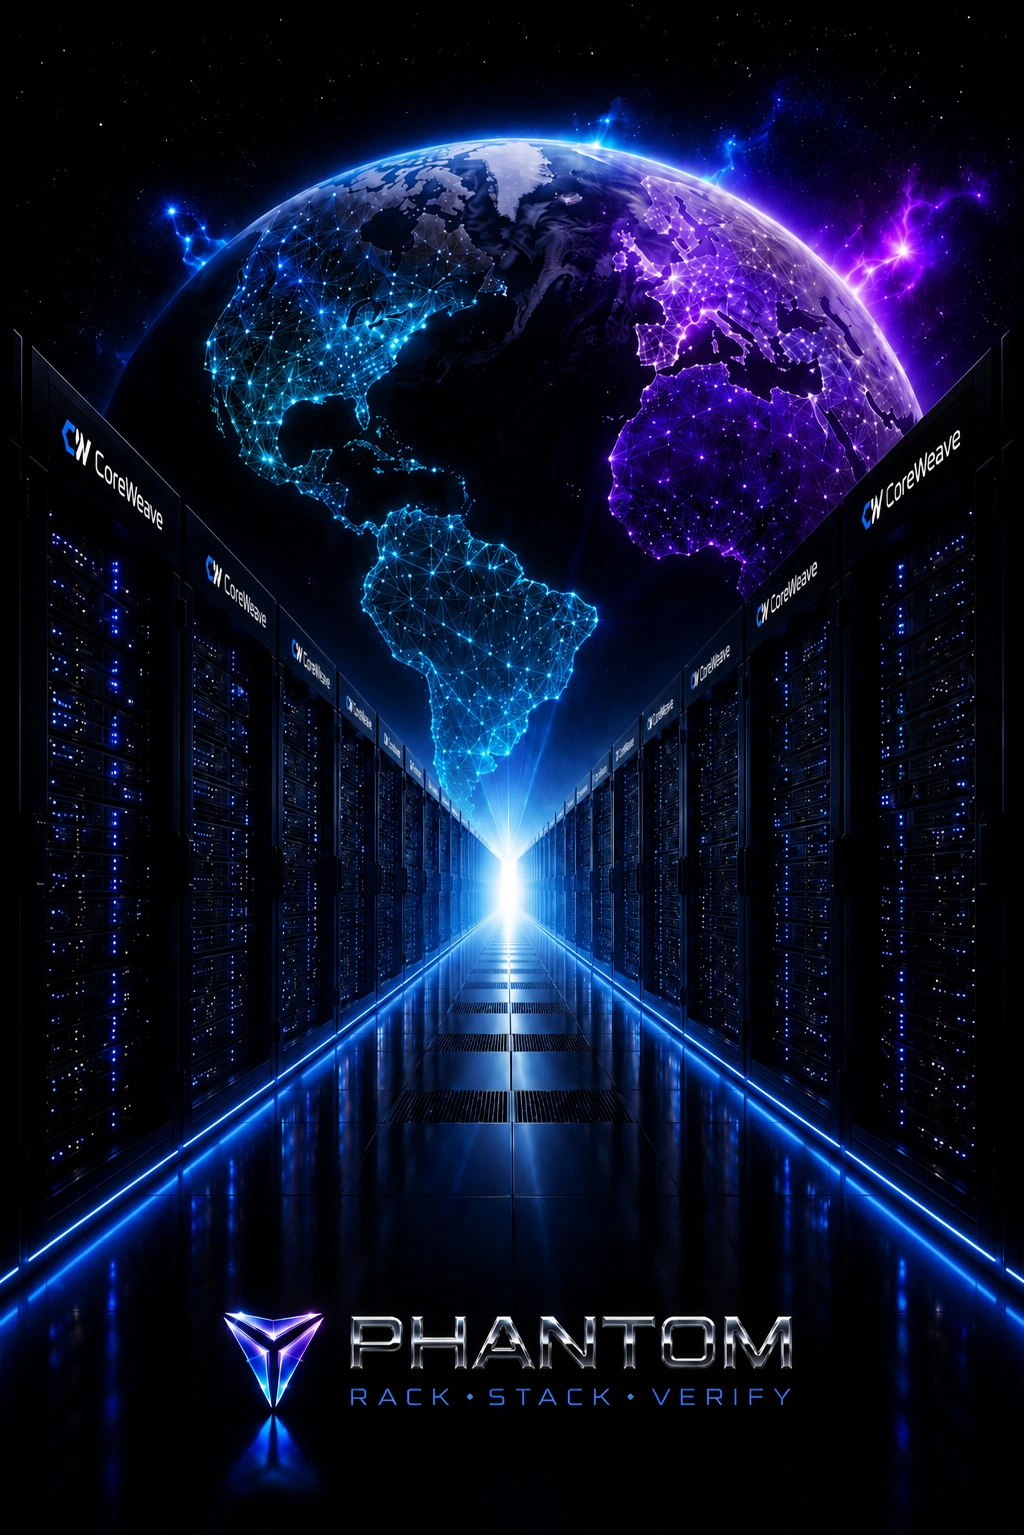
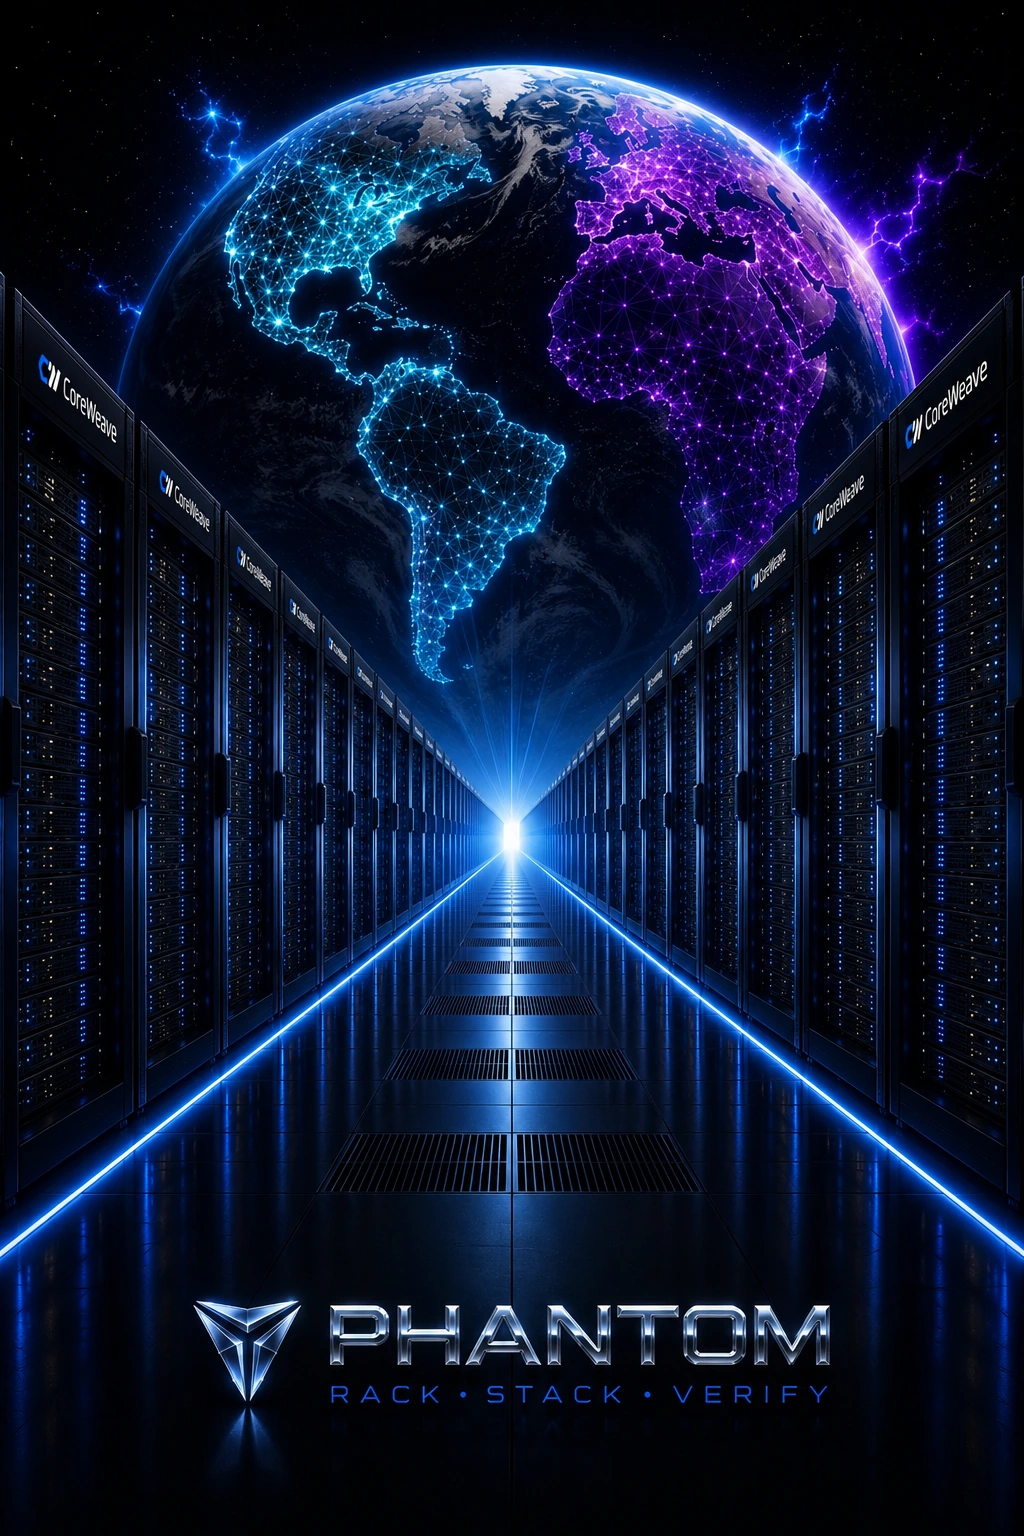
v1.14.65: responsive boot - dual-plate <picture> + per-orientation tap cue
Add plate-wide.webp (1672x941) and auto-swap via <picture><source media=min-aspect-ratio:1/1>; pe-dive stays on the inner <img> so the entry animation is unchanged. Updated portrait plate.webp (1024x1536, dimensional chrome wordmark). Calibrated TAP TO ENTER offsets per orientation (portrait bottom 4.5%, landscape 2%; x +1%); .pe-taphint set inline-block so the container translateX shifts the text. plate-wide.webp added to SW precache. Three stamps lockstep.

diff --git a/dct-ios.html b/dct-ios.html
@@ -10454,6 +10454,7 @@ body.has-resume-banner #boot {
 
 /* ── globe hero (img + mesh + masks move as one) ── */
 #boot .pe-hero { position:fixed; top:0; left:0; width:100%; height:46%; z-index:5; }
+#boot .pe-platepic { position:fixed; inset:0; display:block; }
 #boot .pe-plate { position:fixed; inset:0; width:100%; height:100%; object-fit:cover; object-position:50% 50%; z-index:1; pointer-events:none; }
 #boot .pe-hero img { position:absolute; top:-2%; left:50%; transform:translateX(-50%); width:142%; max-width:none; display:block; }
 #boot .pe-heromask { position:absolute; inset:0; background:linear-gradient(180deg,rgba(4,6,10,0) 48%,rgba(4,6,10,.55) 72%,var(--bg) 90%); pointer-events:none; }
@@ -10491,8 +10492,20 @@ body.has-resume-banner #boot {
 #boot .pe-stash { position:absolute; width:0; height:0; opacity:0; overflow:hidden; pointer-events:none; }
 /* v1.14.64 tap-anywhere entry — whole-frame catcher + small lettering, no button (replaces the v1.14.56 hold-to-charge glass bar) */
 #boot .pe-tapcatch{ position:absolute; inset:0; z-index:5; width:100%; height:100%; background:transparent; border:0; margin:0; padding:0; cursor:pointer; -webkit-tap-highlight-color:transparent; -webkit-appearance:none; appearance:none; }
-#boot .pe-enterhint{ z-index:6; pointer-events:none; top:auto; bottom:calc(env(safe-area-inset-bottom) + 6.5%); }
-#boot .pe-taphint{ font-family:'Chakra Petch','Helvetica Neue',Arial,sans-serif; font-size:11px; letter-spacing:.42em; color:#aab6e8; text-transform:uppercase; opacity:.7; animation:peTapPulse 2.8s ease-in-out infinite; }
+/* tap cue — calibrated per orientation (John, on-device) */
+#boot .pe-enterhint{
+  position:fixed; left:0; width:100%; text-align:center; z-index:6; pointer-events:none;
+  top:auto;
+  bottom:calc(env(safe-area-inset-bottom) + 4.5%);   /* PHONE / portrait */
+  transform:translateX(1%);                          /* x: +1% */
+}
+@media (min-aspect-ratio:1/1){                        /* LAPTOP / landscape */
+  #boot .pe-enterhint{
+    bottom:calc(env(safe-area-inset-bottom) + 2%);
+    transform:translateX(1%);                         /* x: +1% */
+  }
+}
+#boot .pe-taphint{ display:inline-block; font-family:'Chakra Petch','Helvetica Neue',Arial,sans-serif; font-size:11px; letter-spacing:.42em; color:#aab6e8; text-transform:uppercase; opacity:.7; animation:peTapPulse 2.8s ease-in-out infinite; }
 @keyframes peTapPulse{ 0%,100%{opacity:.4;} 50%{opacity:.85;} }
 /* DESIGN_RULES §7 (a11y quality floor): visible keyboard focus the spec omitted — subtle, on-brand cyan, native to the plate; brightens the hint so the cue itself reads as focused */
 #boot .pe-tapcatch:focus-visible{ outline:1px solid rgba(40,224,255,0.5); outline-offset:-3px; }
@@ -10539,7 +10552,7 @@ body.has-resume-banner #boot {
 <script>
 // ━━━ PHANTOM Ghost Update — Service Worker registration ━━━
 // Embedded version sentinel — must match sw.js CACHE_VERSION. Bumped together.
-const PHANTOM_APP_VERSION = 'phantom-v1.14.64';
+const PHANTOM_APP_VERSION = 'phantom-v1.14.65';
 // v1.6.31: bind the boot-screen subtitle to PHANTOM_APP_VERSION so
 // future version bumps update it automatically. Prior to this, the
 // subtitle was hardcoded as "CoreWeave · AUS-01 · v1.4.2" and had
@@ -10886,7 +10899,10 @@ if (typeof window !== 'undefined') {
 
 <!-- ━━━ BOOT ━━━ -->
 <div id="boot">
-<img class="pe-plate" alt="" src="plate.webp">
+<picture class="pe-platepic">
+  <source media="(min-aspect-ratio: 1/1)" srcset="plate-wide.webp">
+  <img class="pe-plate" alt="" src="plate.webp">
+</picture>
 
 <button class="pe-tapcatch" id="pe-tapcatch" type="button" aria-label="Tap anywhere to enter PHANTOM"></button>
 <div class="pe-uz pe-enterhint" aria-hidden="true"><span class="pe-taphint" id="pe-taphint">TAP TO ENTER</span></div>

diff --git a/sw.js b/sw.js
@@ -34,7 +34,7 @@
 // a clean v1.13.3 — dropping the prior -N cache-iteration suffix — so this real
 // version bump busts every client's cache and the three stamps (app const /
 // version.json / this key) line up again. Patch bumps continue from here.
-const CACHE_VERSION = 'phantom-v1.14.64';
+const CACHE_VERSION = 'phantom-v1.14.65';
 
 // Assets to precache on install. Keep this minimal — single-file PWA means
 // most of PHANTOM is in dct-ios.html itself.
@@ -46,7 +46,8 @@ const PRECACHE_URLS = [
   'vendor/qrcode.min.js',
   'vendor/sha256.min.js',
   'vendor/lz-string.min.js',
-  'plate.webp'
+  'plate.webp',
+  'plate-wide.webp'
 ];
 
 // v1.6.29: One source of truth for "is this Request URL cacheable?".